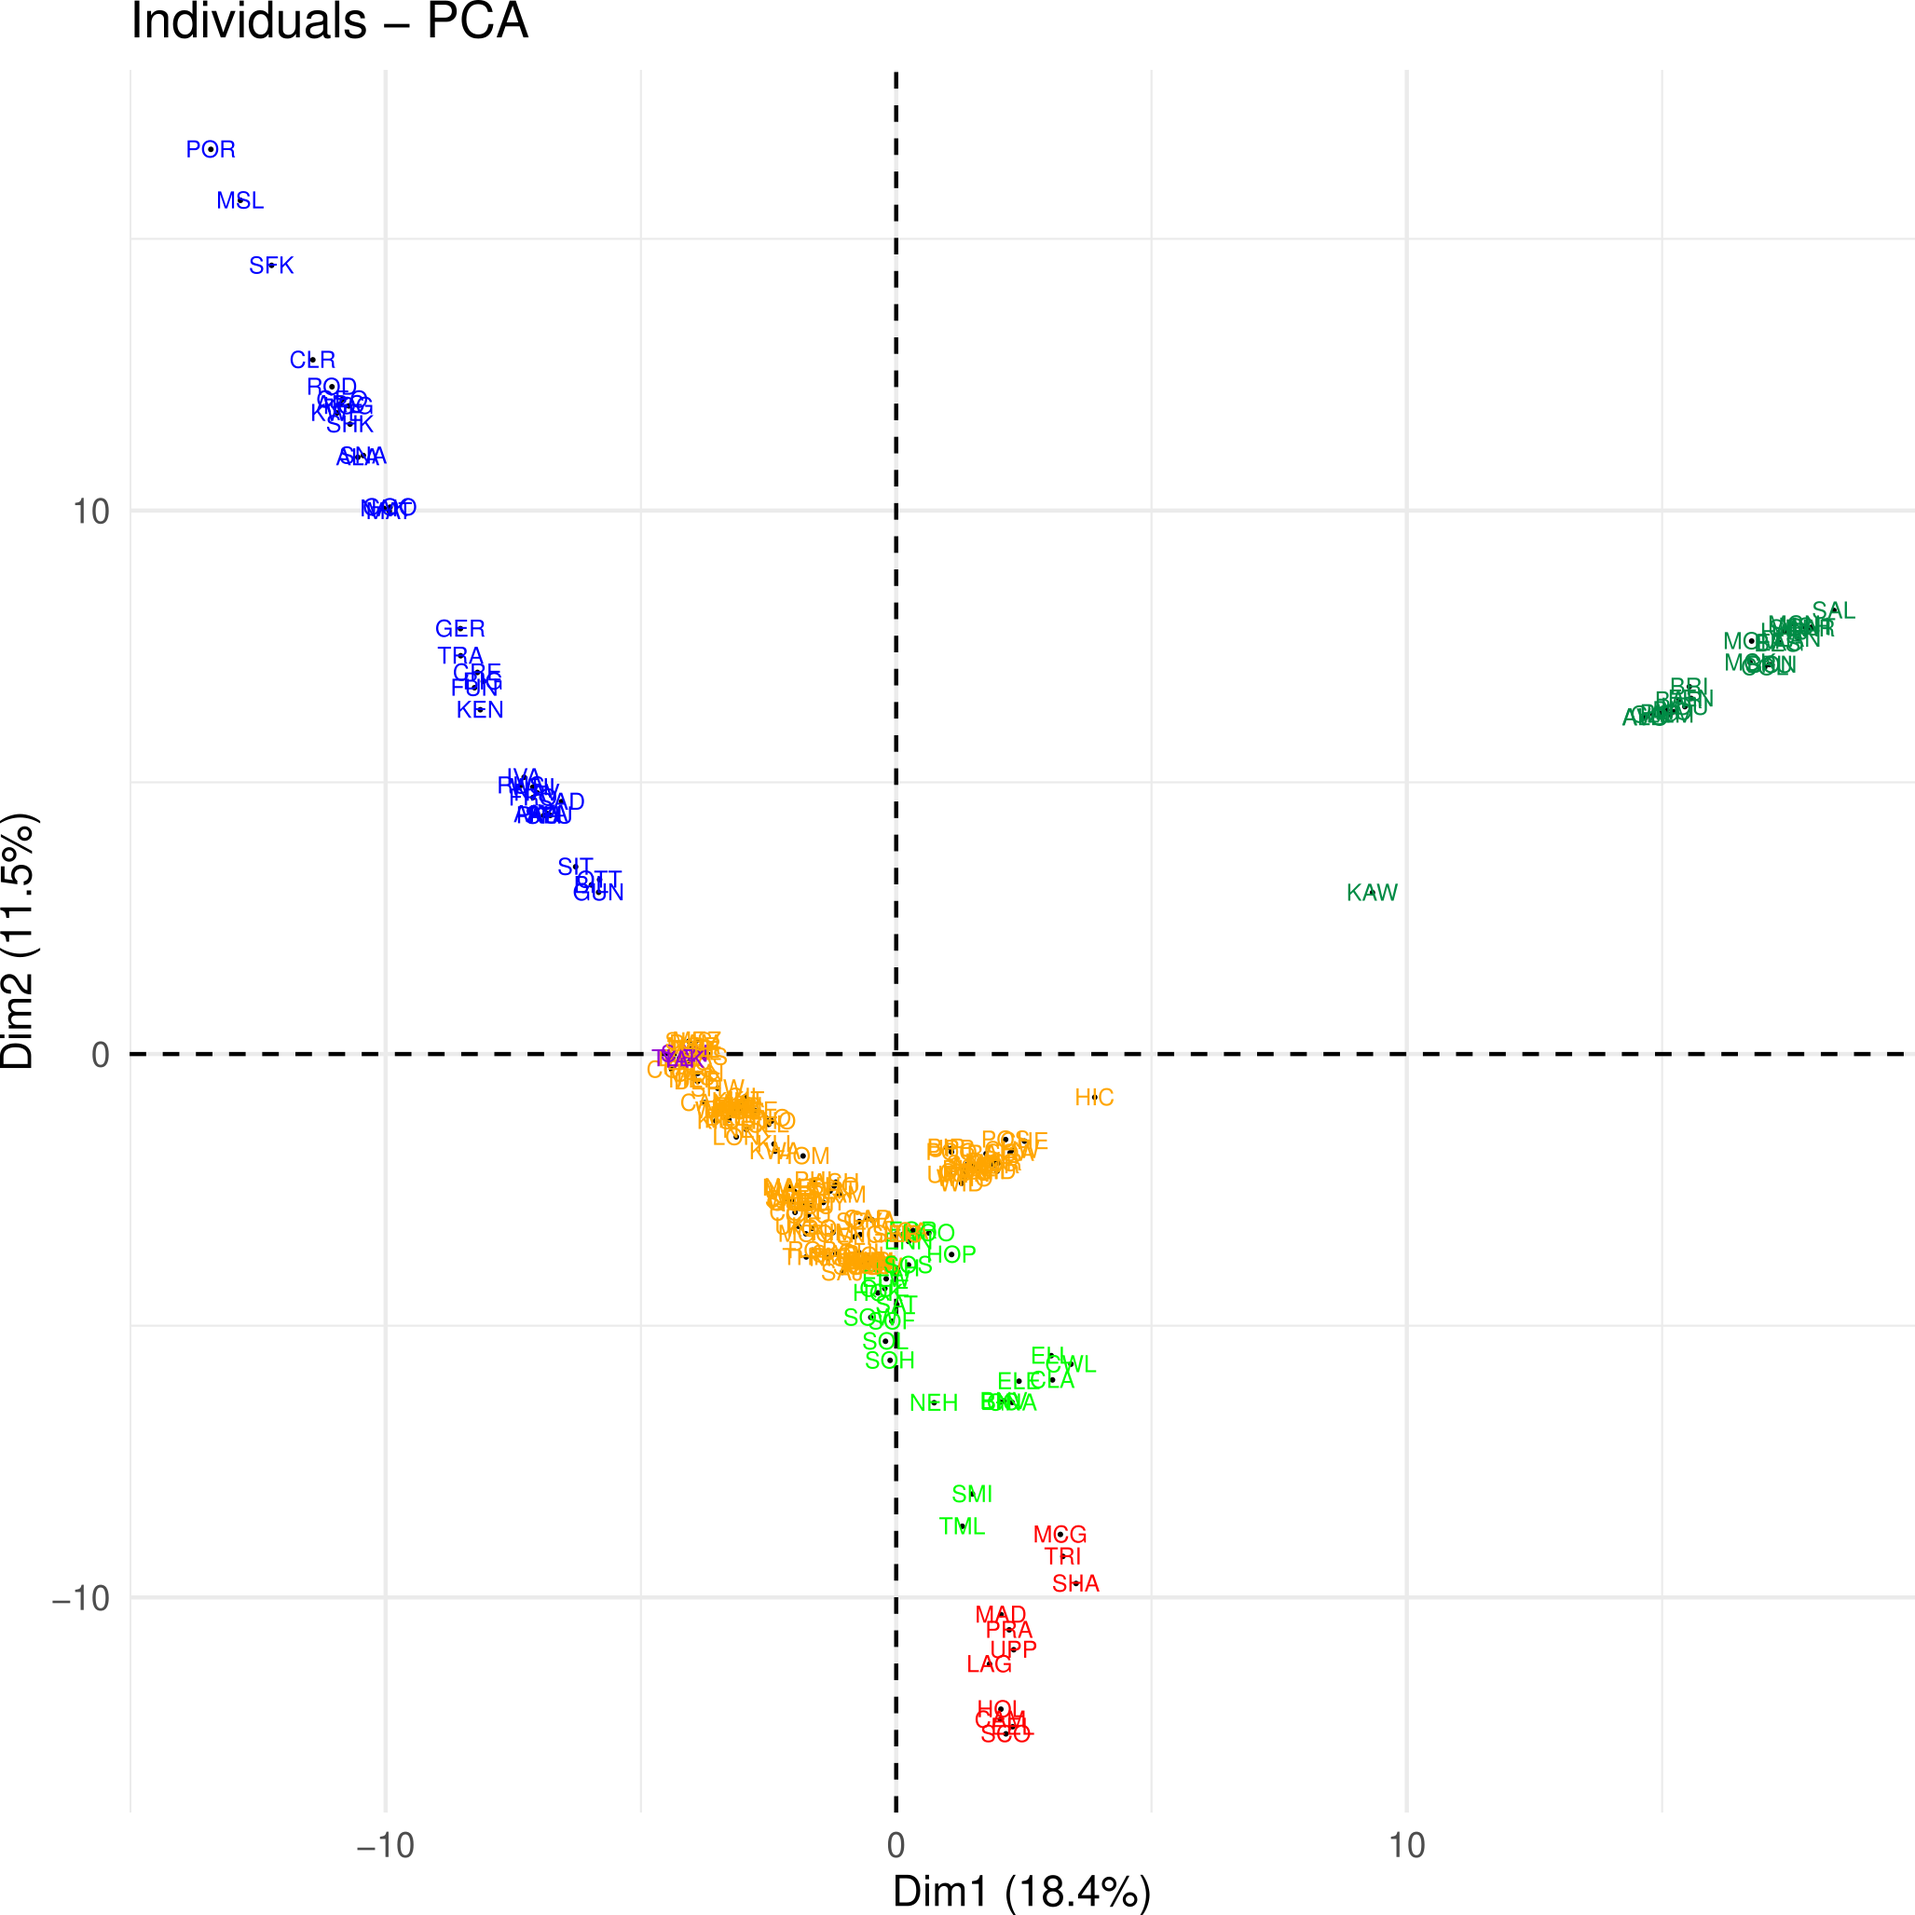
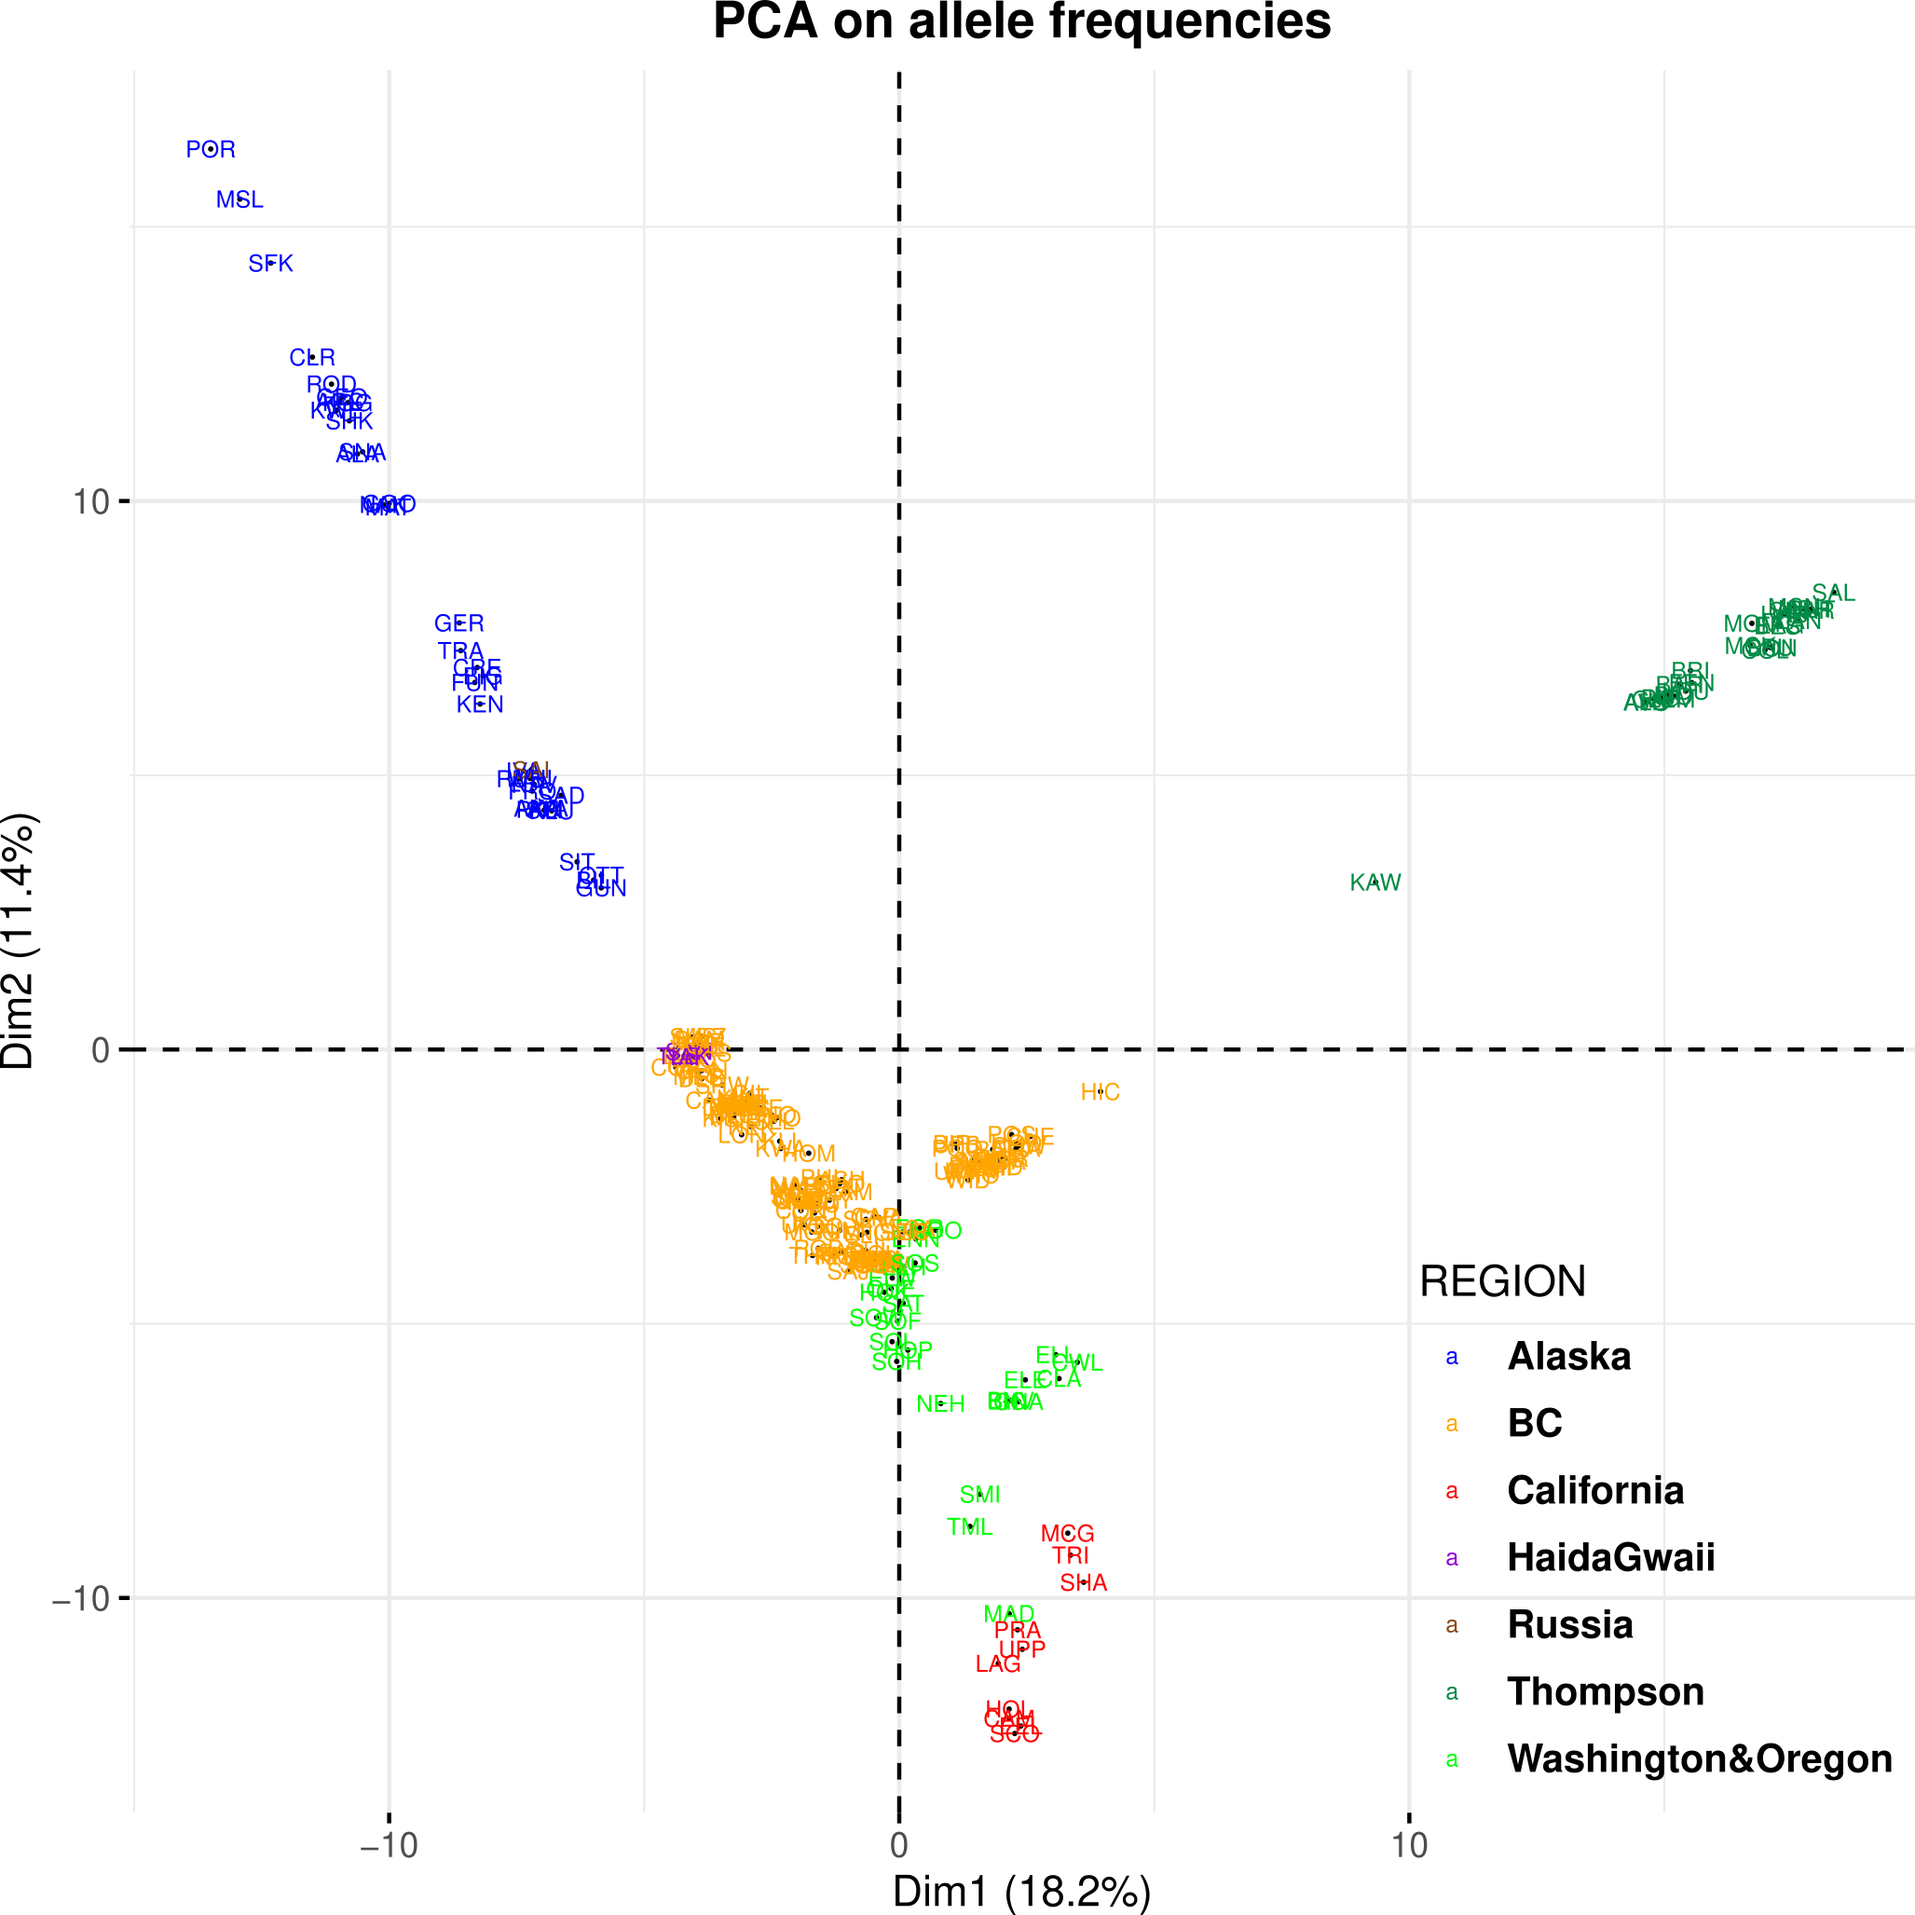
edited readme

diff --git a/README.md b/README.md
@@ -143,7 +143,8 @@ freq3 <- reshape2::dcast(freq2,SNP~CLST)
 freq3 <- freq3[,-1] 
 freq4 <- t(freq3)
 pop <- unique(freq$CLST)   
-pop <- data.frame(pop)
+pop <- data.frame(pop) %>% set_colnames(.,c("POP"))
+
 
 #perform PCA
 pca1 <- dudi.pca(freq4,scale=FALSE,scannf=FALSE)
@@ -155,8 +156,11 @@ strata <- select(strata, V2,V6) %>%
 strata <- unique(strata)
 strata <- strata[order(strata$POP),]  #reorder because population DRA has been renamed into WAC
 
+#ensure that the order in strata will match order of the freq file:
+strata = left_join(pop, strata)
+
 #personalizing the colors:
-myColors <- c("blue","orange","red","darkviolet","springgreen4","green")
+myColors <- c("blue","orange","red","darkviolet","chocolate4", "springgreen4","green")
 names(myColors) <- levels(strata$REGION)
 colScale <- scale_colour_manual(name = "REGION",values = myColors)
 
@@ -165,14 +169,19 @@ p <- fviz_pca_ind(pca1, label="none", pointsize = 0.0) +
     geom_text(aes(label=strata$POP, 
         colour=factor(strata$REGION)),
         size = 2 )
+#p <- p + theme_minimal() + theme(legend.position = "none")  + colScale
+#p <- p + scale_color_igv() + theme_minimal() + theme(legend.position = "none")
 p <- p +theme(legend.text = element_text(size = 10, face = "bold")) +
-        theme(legend.justification=c(1,0), legend.position=c(1,0)) +
-        colScale
+    theme(legend.justification=c(1,0), legend.position=c(1,0)) + 
+    colScale + 
+    ggtitle("PCA on allele frequencies") + 
+     theme(plot.title = element_text(lineheight=.8, face="bold" , hjust = 0.5))
 
-
+    
 pdf(file="pca_on_freq_population.pdf")
 p
 dev.off()
+
 
 ```
 
